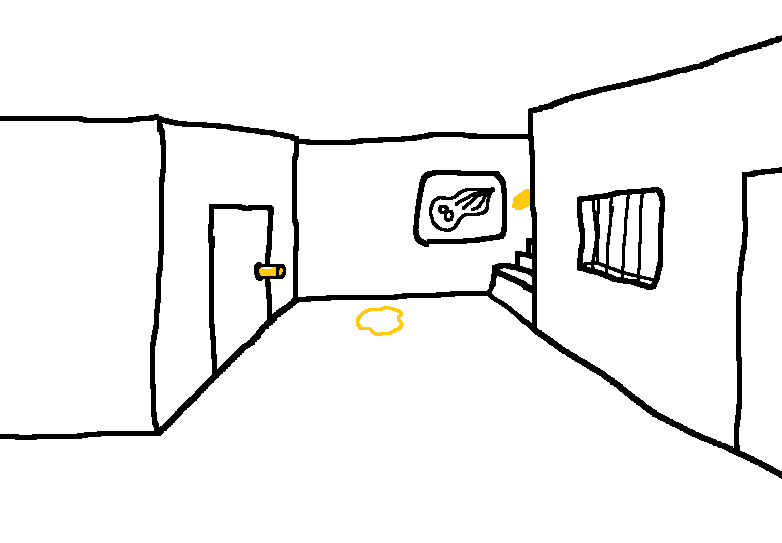
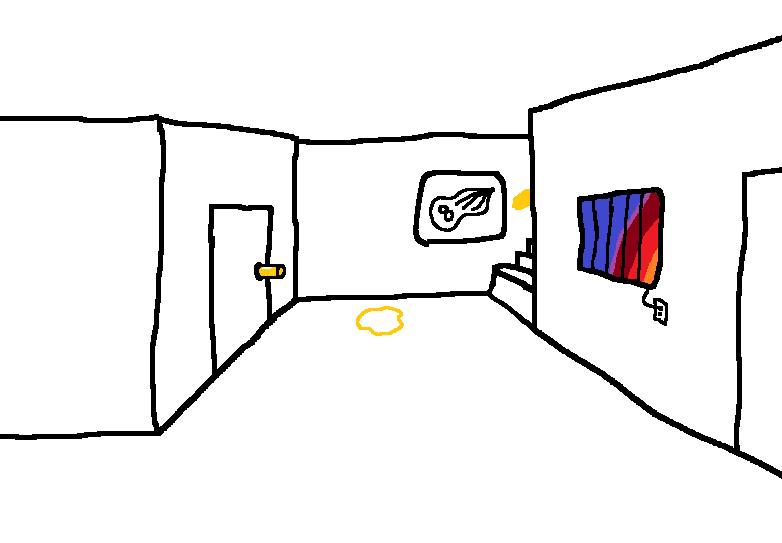
Plug that outlet in please

Changed region(s): [[0.7366, 0.3536, 0.8593, 0.6188]]

diff --git a/docs/squidbreak/110/index.html b/docs/squidbreak/110/index.html
@@ -2,13 +2,13 @@
 <html lang="en-US">
     <head>
         <meta charset="utf-8"/>
-        <title>UA: jump over the stairs - SquidBreak</title>
+        <title>Plug that outlet in please - SquidBreak</title>
         <meta name="description" content="Micro Squid Ink Adventures - SquidBreak"/>
 
-        <meta property="og:title" content="UA: jump over the stairs"/>
+        <meta property="og:title" content="Plug that outlet in please"/>
         <meta property="og:type" content="website"/>
-        <meta property="og:image" content="/MSIA/images/107.1.png"/>
-        <meta property="og:url" content="squidbreak/107/index.html"/>
+        <meta property="og:image" content="/MSIA/images/110.png"/>
+        <meta property="og:url" content="squidbreak/110/index.html"/>
         <meta property="og:description" content="Micro Squid Ink Adventures - SquidBreak"/>
         
         <link rel="stylesheet" href="/MSIA/css/comicPage.css"/>
@@ -19,22 +19,16 @@
         <main class="pageFrame">
             <div class="pageContent">
                 <section class="mediaContent">
-                    <h1 class="pageTitle">UA: jump over the stairs</h1>
-                    <figure class="panels"><img src="/MSIA/images/107.1.png" width="782" height="543" alt /><img src="/MSIA/images/107.2.png" width="782" height="543" alt /><img src="/MSIA/images/107.3.gif" width="782" height="543" alt /></figure>
+                    <h1 class="pageTitle">Plug that outlet in please</h1>
+                    <figure class="panels"><img src="/MSIA/images/110.png" width="782" height="543" alt /></figure>
                 </section>
                 <section class="textContent">
-                    <div class="prattle"><p>IT GOES ABOUT AS WELL AS YOU'D EXPECT. YOU SUPPOSE YOU AT LEAST GOT A LITTLE CLOSER TO THAT SOURCE OF <STRONG>THE VIBRANT AND BEAUTIFUL LIGHT OF LOVE</STRONG> UP THERE, THOUGH. BUT IT KIND OF JUST MAKES YOU FEEL WORSE.</p><p>YOUR <STRONG>INK-COATED HAMMER</STRONG> RATTLES AROUND IN YOUR <STRONG>INVENTORIUM</STRONG>, YET ANOTHER VICTIM TO YOUR LATEST PRATFALL.</p></div>
+                    <div class="prattle"><p>YOU WOULD LOVE TO DO THAT. EXCEPT THAT WHAT THE FUCK ARE YOU TALKING ABOUT.</p><p>DID YOU MEAN THE OUTLET THAT HAS BEEN IN PLAIN VIEW NEXT TO THAT <STRONG>VENT</STRONG> THIS ENTIRE TIME? BECAUSE THAT'S BEING USED. BY THE VENT.</p><p>SERIOUSLY, DID YOU WASH IN FROM SOME <STRONG>PARALLEL UNIVERSE</STRONG> OR SOMETHING? BECAUSE OH MY FUCKING COD THERE HAD BETTER NOT BE ANOTHER ONE OF THOSE TO CLEAN UP. THIS IS HARD ENOUGH TO MANAGE AS IT IS.</p></div>
 
                     
 
                     <nav class="pageNavigation">
                         
-                            
-                            <div class="nextArrow lexi">
-                                <p> &gt; <a href="/MSIA/squidbreak/108/">
-                                    UA: smear ink on the wall with the hammer and swim up the resulting trail
-                                </a></p>
-                            </div>
                             
                         
                         <div class="footerNav">
@@ -42,14 +36,14 @@
                                 
                                 <li><a href="/MSIA/squidbreak/1/">Start Over</a></li>
                                 
-                                <li><a href="/MSIA/squidbreak/98/">Go Back</a></li>
+                                <li><a href="/MSIA/squidbreak/106/">Go Back</a></li>
                                 
                                 <li><a href="/MSIA/squidbreak/log/">Adventure Log</a></li>
                                 
                             </ul>
                             <ul class="meta">
-                                <li>03/12/2024, 
-                                    07:20 PM EDT</li>
+                                <li>03/29/2024, 
+                                    12:00 AM EDT</li>
                                 <li>p0psicles</li>
                             </ul>
                         </div>

diff --git a/docs/squidbreak/109/index.html b/docs/squidbreak/109/index.html
@@ -2,13 +2,13 @@
 <html lang="en-US">
     <head>
         <meta charset="utf-8"/>
-        <title>UA: jump over the stairs - SquidBreak</title>
+        <title>Plug that outlet in please - SquidBreak</title>
         <meta name="description" content="Micro Squid Ink Adventures - SquidBreak"/>
 
-        <meta property="og:title" content="UA: jump over the stairs"/>
+        <meta property="og:title" content="Plug that outlet in please"/>
         <meta property="og:type" content="website"/>
-        <meta property="og:image" content="/MSIA/images/107.1.png"/>
-        <meta property="og:url" content="squidbreak/107/index.html"/>
+        <meta property="og:image" content="/MSIA/images/109.png"/>
+        <meta property="og:url" content="squidbreak/109/index.html"/>
         <meta property="og:description" content="Micro Squid Ink Adventures - SquidBreak"/>
         
         <link rel="stylesheet" href="/MSIA/css/comicPage.css"/>
@@ -19,22 +19,16 @@
         <main class="pageFrame">
             <div class="pageContent">
                 <section class="mediaContent">
-                    <h1 class="pageTitle">UA: jump over the stairs</h1>
-                    <figure class="panels"><img src="/MSIA/images/107.1.png" width="782" height="543" alt /><img src="/MSIA/images/107.2.png" width="782" height="543" alt /><img src="/MSIA/images/107.3.gif" width="782" height="543" alt /></figure>
+                    <h1 class="pageTitle">Plug that outlet in please</h1>
+                    <figure class="panels"><img src="/MSIA/images/109.png" width="782" height="543" alt /></figure>
                 </section>
                 <section class="textContent">
-                    <div class="prattle"><p>IT GOES ABOUT AS WELL AS YOU'D EXPECT. YOU SUPPOSE YOU AT LEAST GOT A LITTLE CLOSER TO THAT SOURCE OF <STRONG>THE VIBRANT AND BEAUTIFUL LIGHT OF LOVE</STRONG> UP THERE, THOUGH. BUT IT KIND OF JUST MAKES YOU FEEL WORSE.</p><p>YOUR <STRONG>INK-COATED HAMMER</STRONG> RATTLES AROUND IN YOUR <STRONG>INVENTORIUM</STRONG>, YET ANOTHER VICTIM TO YOUR LATEST PRATFALL.</p></div>
+                    <div class="prattle"><p>YOU PLUG THE <STRONG>OUTLET</STRONG> INTO THE <STRONG>WINDOW</STRONG>.</p><p>AND THEN, AS IF BY MAGIC, YOU ARE BESET ONCE MORE. BY THE BEAUTY OF THE SUN. SO LOVELY, SO WONDROUS, SO PRESENT. THE SHEER RESTITUDE BRINGS A TEAR TO YOUR EYE, PROBABLY. YOU DON'T REALLY FEEL LIKE CHECKING RIGHT NOW.</p></div>
 
                     
 
                     <nav class="pageNavigation">
                         
-                            
-                            <div class="nextArrow lexi">
-                                <p> &gt; <a href="/MSIA/squidbreak/108/">
-                                    UA: smear ink on the wall with the hammer and swim up the resulting trail
-                                </a></p>
-                            </div>
                             
                         
                         <div class="footerNav">
@@ -42,14 +36,14 @@
                                 
                                 <li><a href="/MSIA/squidbreak/1/">Start Over</a></li>
                                 
-                                <li><a href="/MSIA/squidbreak/98/">Go Back</a></li>
+                                <li><a href="/MSIA/squidbreak/108/">Go Back</a></li>
                                 
                                 <li><a href="/MSIA/squidbreak/log/">Adventure Log</a></li>
                                 
                             </ul>
                             <ul class="meta">
-                                <li>03/12/2024, 
-                                    07:20 PM EDT</li>
+                                <li>03/29/2024, 
+                                    12:00 AM EDT</li>
                                 <li>p0psicles</li>
                             </ul>
                         </div>

diff --git a/docs/squidbreak/log_desc/index.html b/docs/squidbreak/log_desc/index.html
@@ -26,6 +26,20 @@
                     
                         
                             
+                                29/03/2024 - 
+                                p0psicles> 
+                                <a href="/MSIA/squidbreak/110/" class="sarah">Plug that outlet in please</a>
+                                <br/>
+                            
+                        
+                            
+                                29/03/2024 - 
+                                p0psicles> 
+                                <a href="/MSIA/squidbreak/109/" class="sarah">Plug that outlet in please</a>
+                                <br/>
+                            
+                        
+                            
                                 17/03/2024 - 
                                 julia_pseudo> 
                                 <a href="/MSIA/squidbreak/108/" class="lexi">UA: smear ink on the wall with the hammer and swim up the resulting trail</a>

diff --git a/docs/squidbreak/108/index.html b/docs/squidbreak/108/index.html
@@ -30,6 +30,12 @@
                     <nav class="pageNavigation">
                         
                             
+                            <div class="nextArrow sarah">
+                                <p> &gt; <a href="/MSIA/squidbreak/109/">
+                                    Plug that outlet in please
+                                </a></p>
+                            </div>
+                            
                         
                         <div class="footerNav">
                             <ul> 
@@ -43,7 +49,7 @@
                             </ul>
                             <ul class="meta">
                                 <li>03/17/2024, 
-                                    12:55 AM EST</li>
+                                    12:55 AM EDT</li>
                                 <li>julia_pseudo</li>
                             </ul>
                         </div>

diff --git a/docs/squidbreak/log_asc/index.html b/docs/squidbreak/log_asc/index.html
@@ -783,6 +783,20 @@
                             <br/>
                             
                         
+                            
+                            29/03/2024 - 
+                            p0psicles> 
+                            <a href="/MSIA/squidbreak/109/" class="sarah">Plug that outlet in please</a>
+                            <br/>
+                            
+                        
+                            
+                            29/03/2024 - 
+                            p0psicles> 
+                            <a href="/MSIA/squidbreak/110/" class="sarah">Plug that outlet in please</a>
+                            <br/>
+                            
+                        
                     
                 </nav>
             </div>
